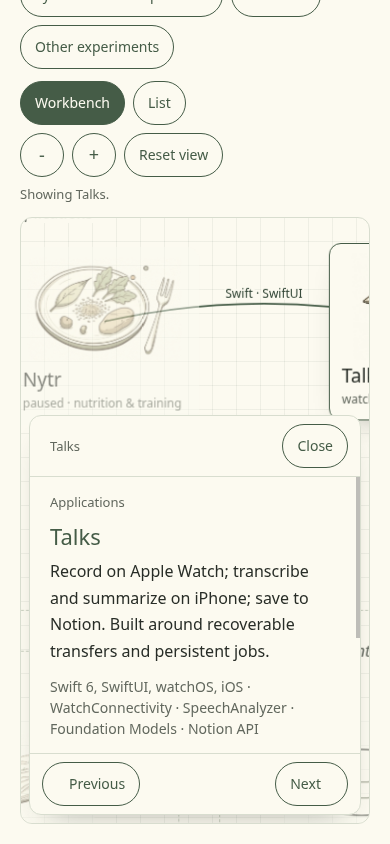
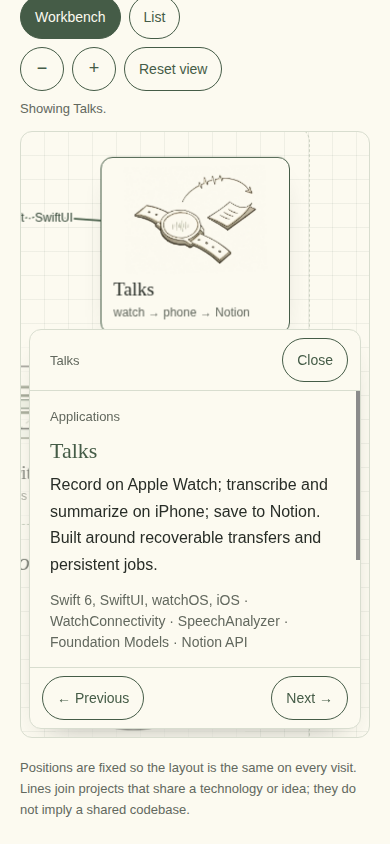
docs(v3): screenshots rendered in CI Chrome and Firefox with real fonts

diff --git a/docs/portfolio-v3/README.md b/docs/portfolio-v3/README.md
@@ -166,8 +166,11 @@ Added:
 - `css/interactive.css` (homepage only), `css/explore.css`, `css/adr-demo.css`
 - `explore/index.html`, `notebook/adr-extraction-demo/index.html`
 - `images/previews/*-640.webp`, made by `scripts/make_preview_posters.mjs`
-- `tests/e2e/run.mjs`, `tests/e2e/perf.mjs`, `tests/e2e/lib/{browser,server}.mjs`
-- `docs/portfolio-v3/` (this file and screenshots)
+- `tests/e2e/run.mjs`, `tests/e2e/firefox.mjs`, `tests/e2e/perf.mjs`,
+  `tests/e2e/lib/{browser,server}.mjs`
+- `.github/workflows/browser-tests.yml` (read-only browser CI, no deploy)
+- `docs/portfolio-v3/`: this file, plus screenshots rendered in CI. The
+  Chrome set has no prefix; the Firefox set is named `firefox-*.png`.
 
 Changed:
 
